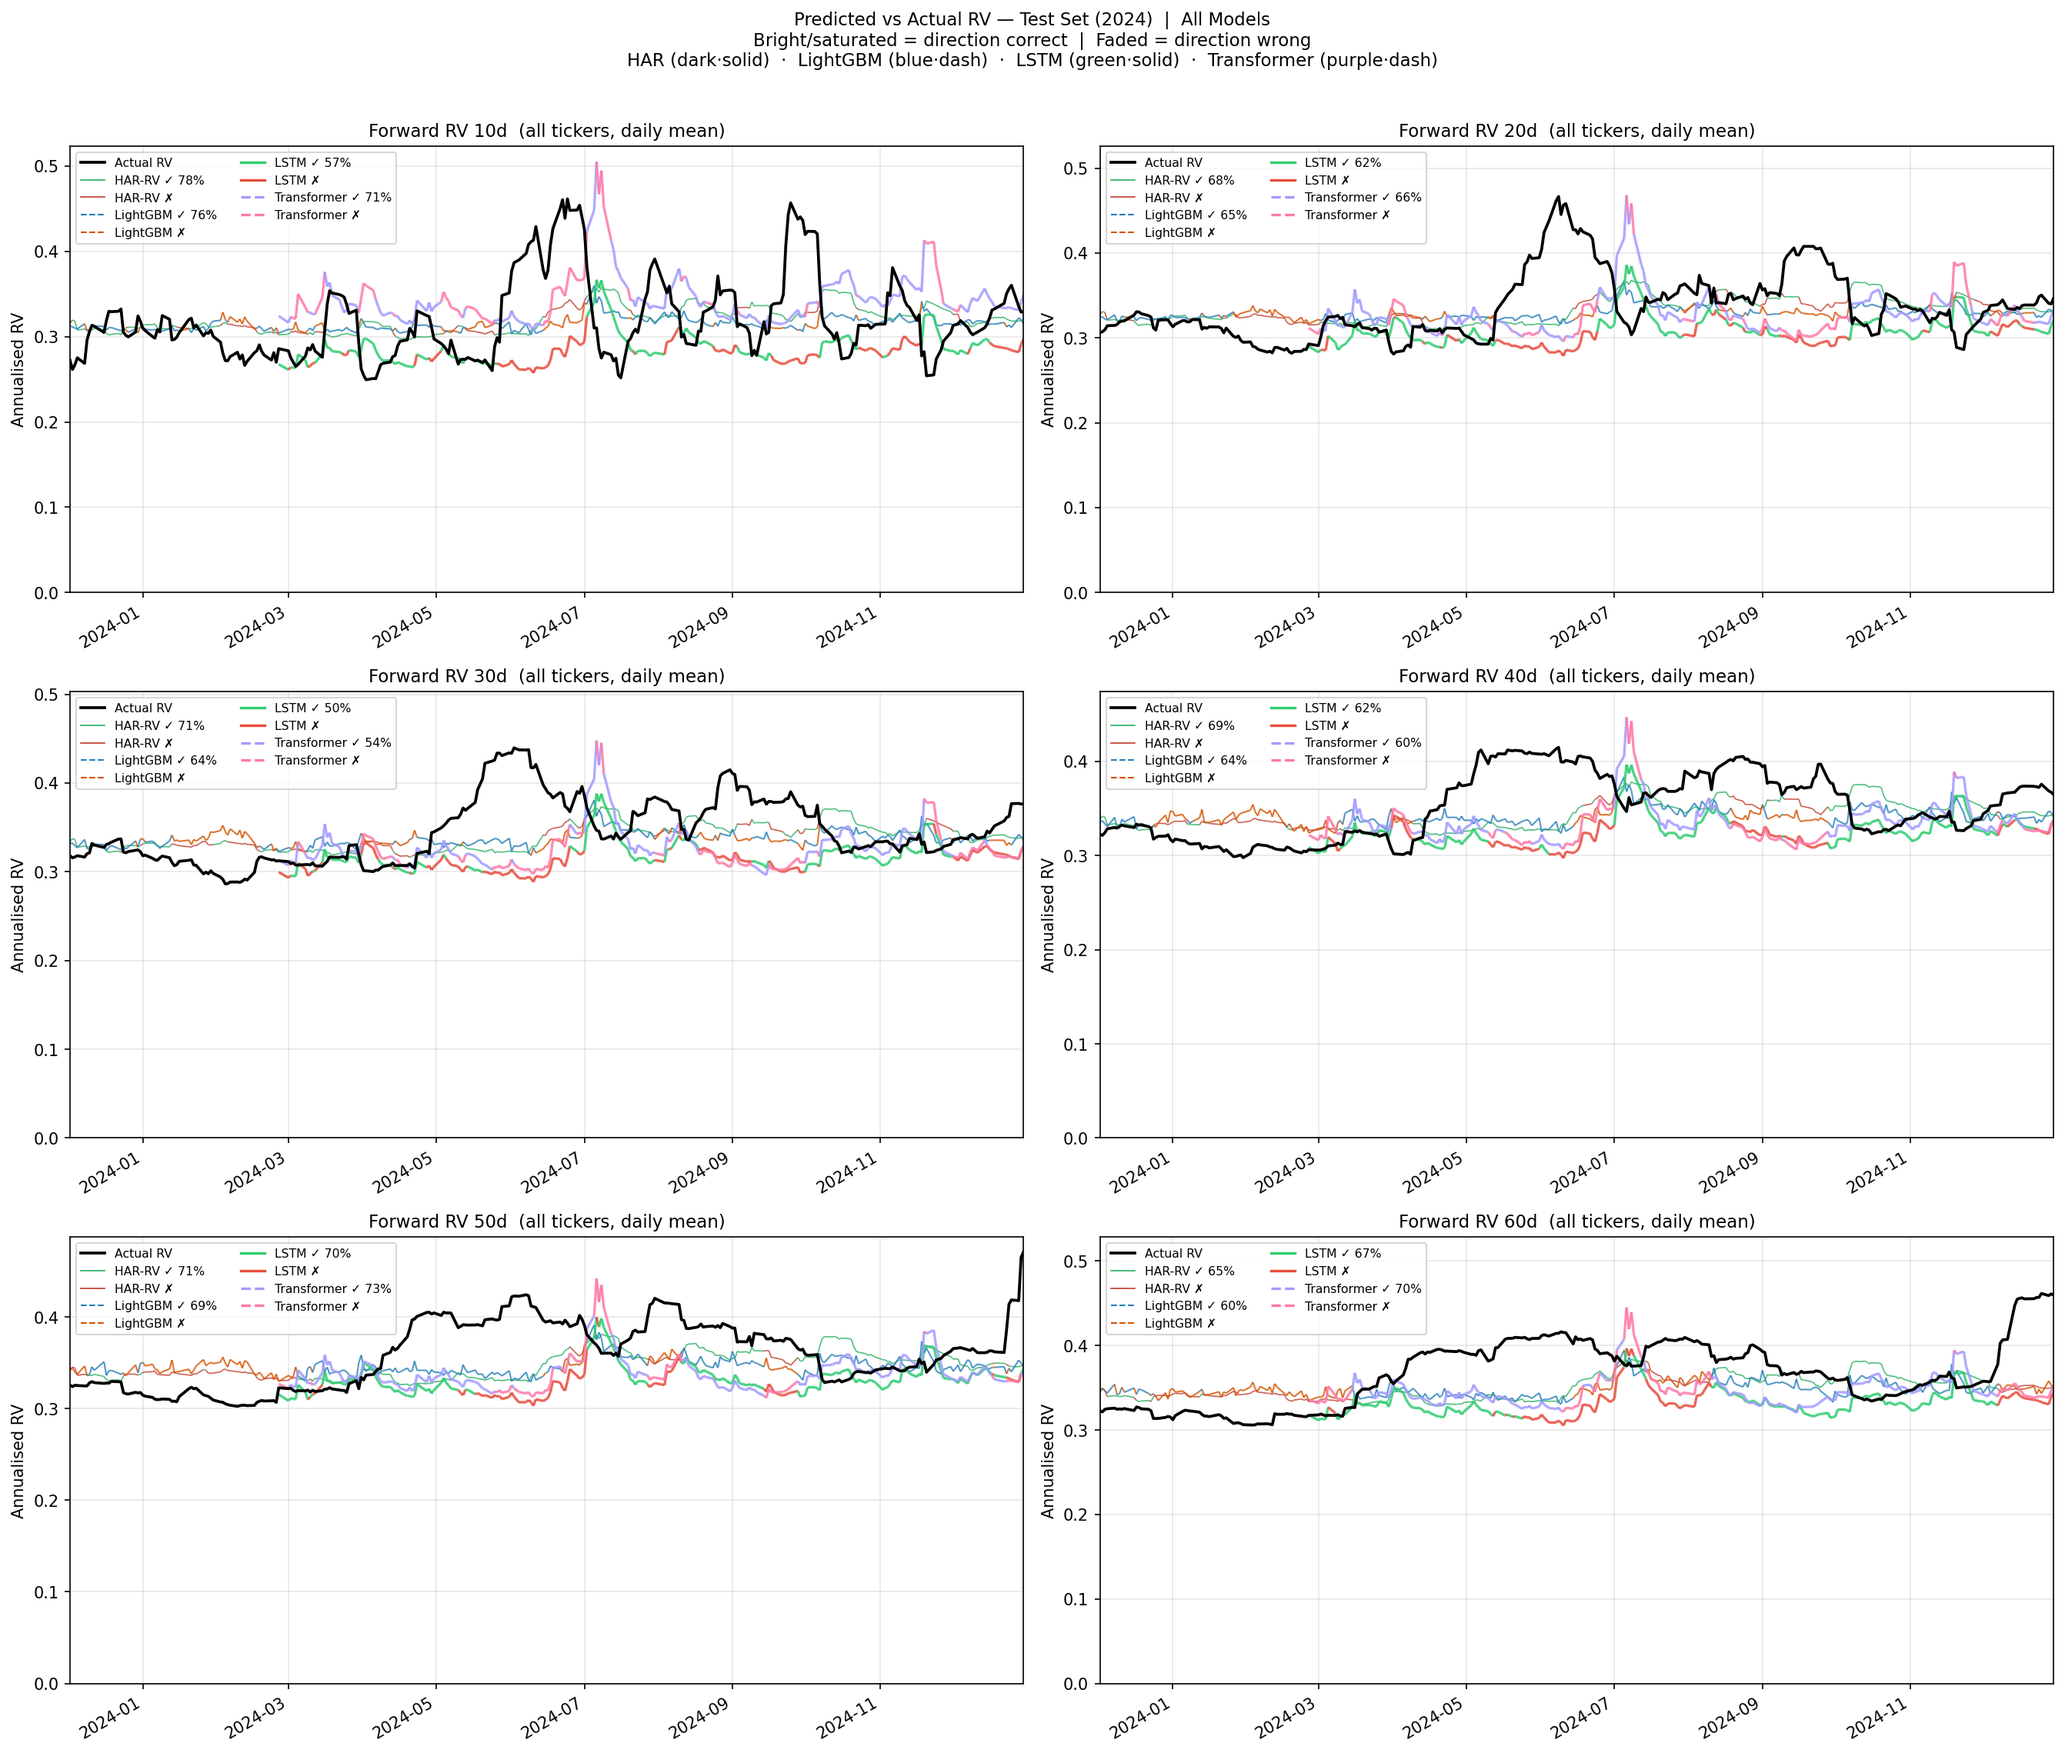
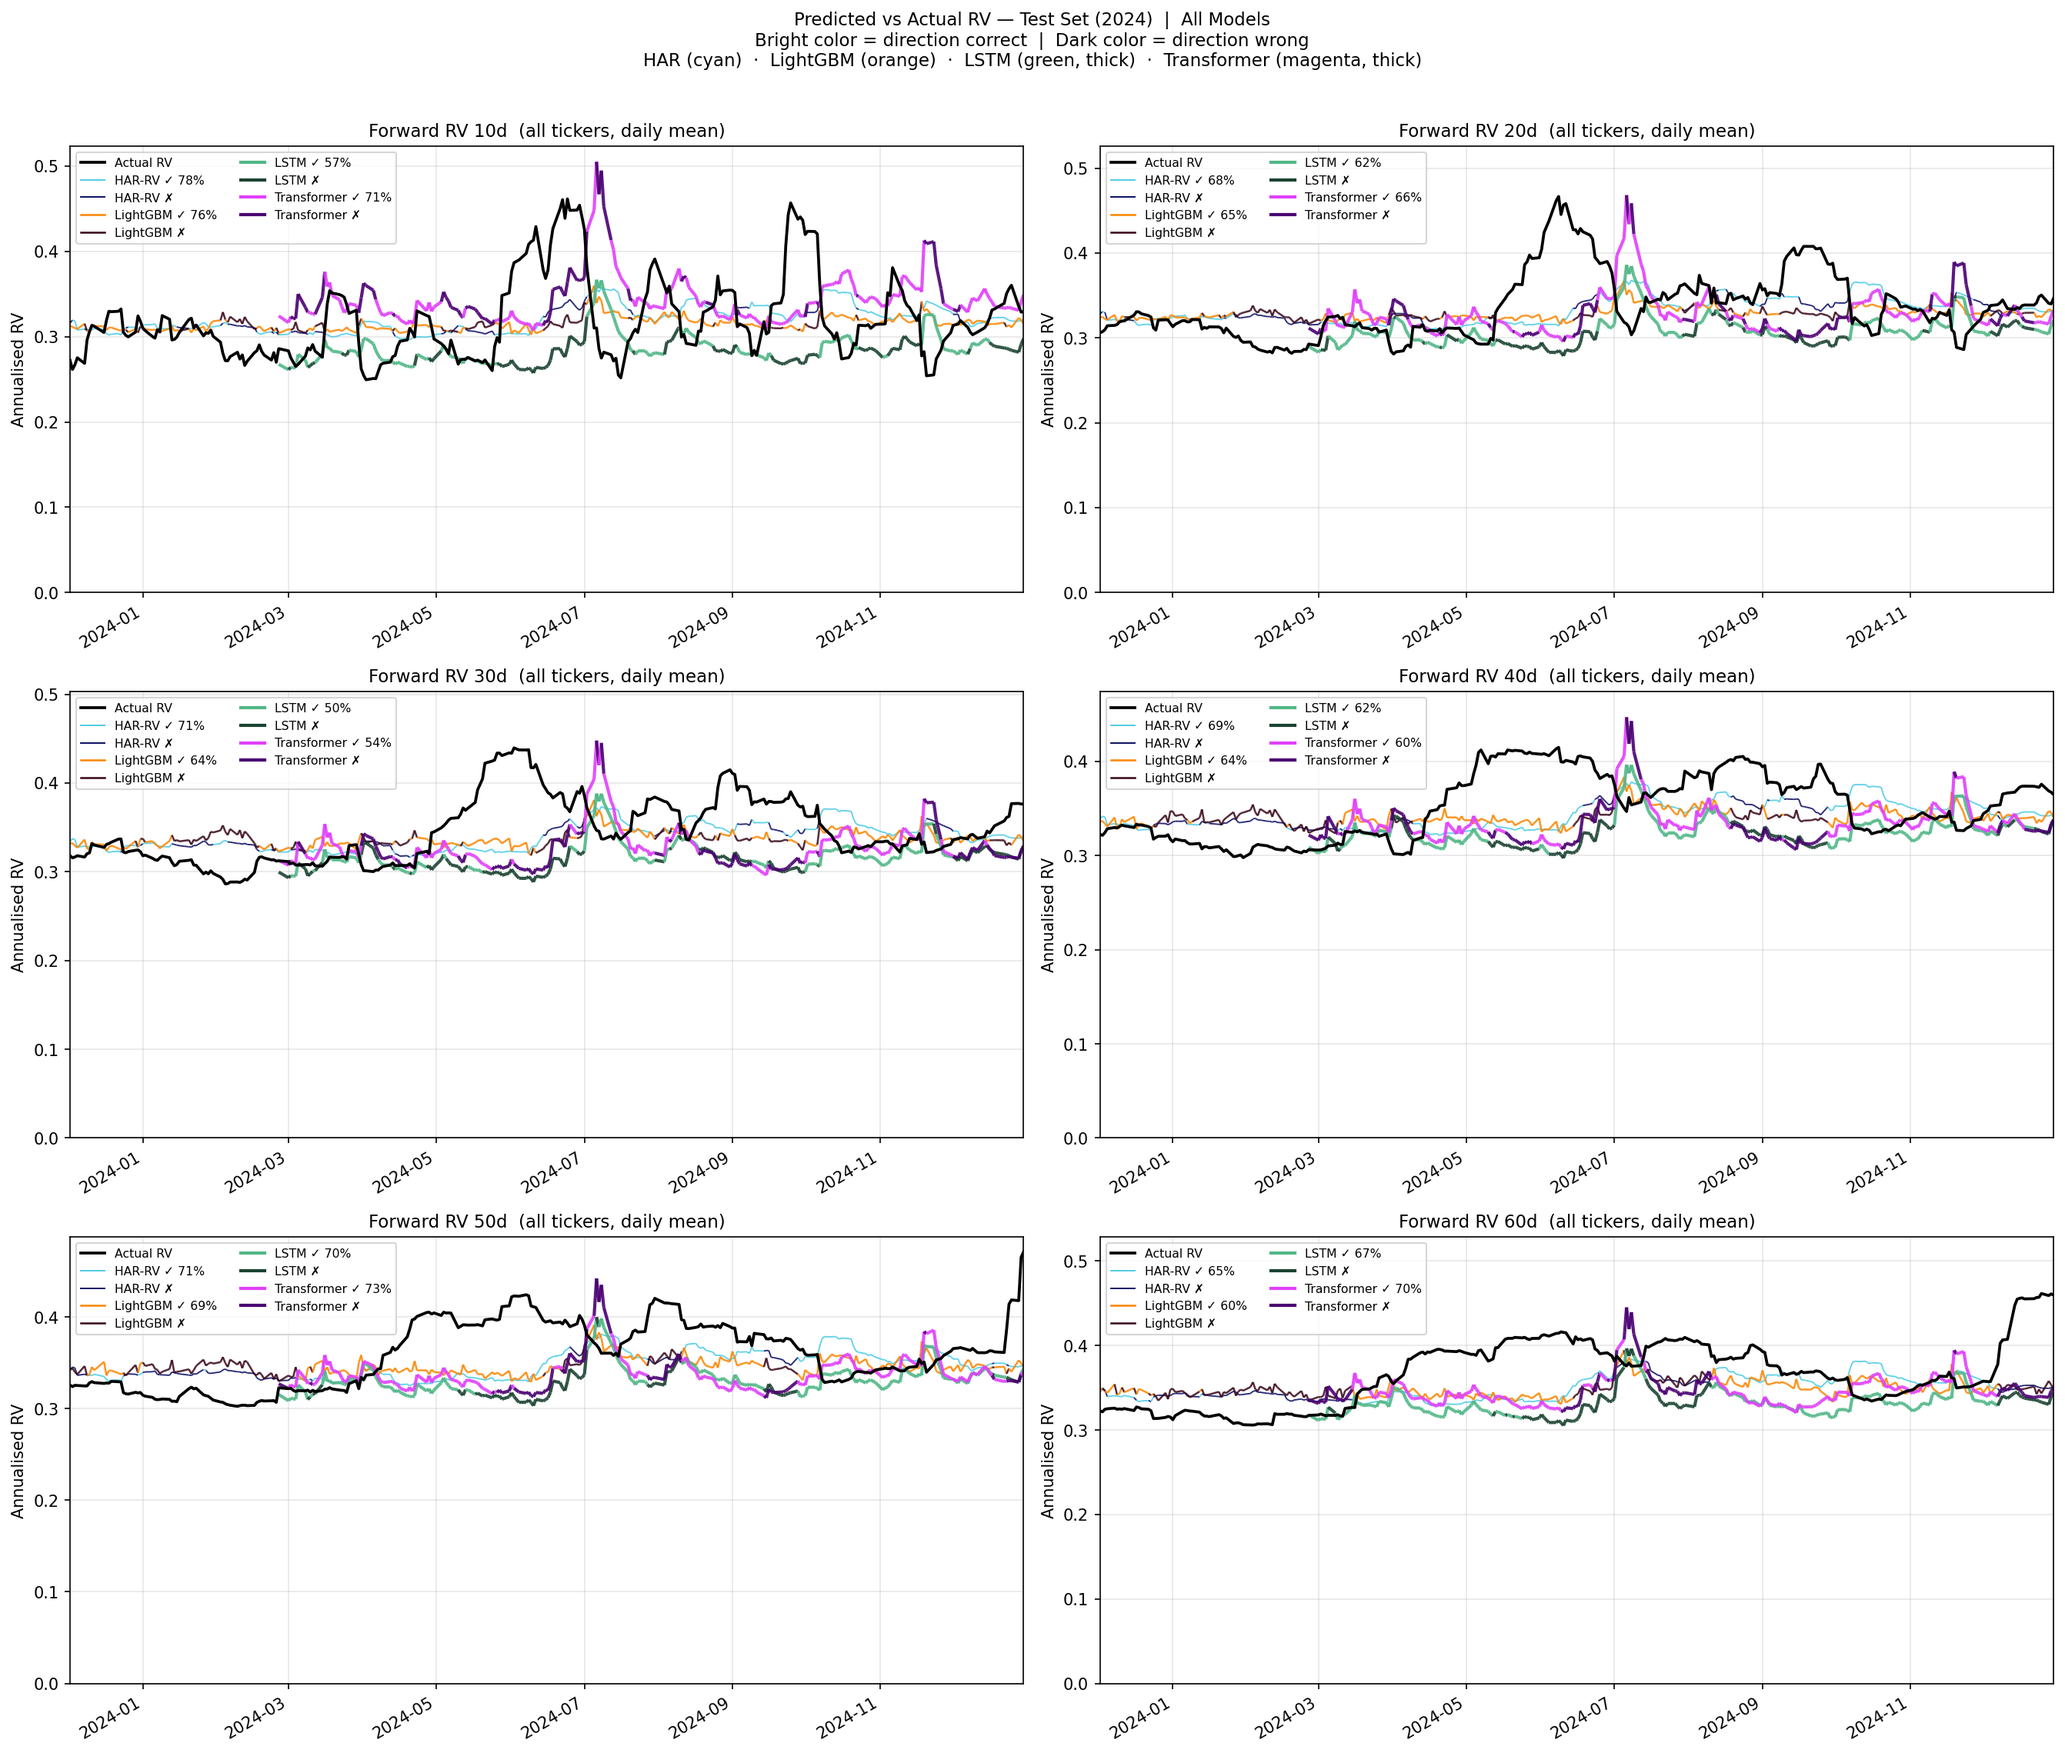
Update project2 direction accuracy plot and plotting script

diff --git a/project2/scripts/plot_dir_accuracy.py b/project2/scripts/plot_dir_accuracy.py
@@ -52,12 +52,13 @@ DEVICE   = torch.device("cuda" if torch.cuda.is_available() else "cpu")
 
 COLOR_ACT = "black"
 
-# Per-model: (correct_color, wrong_color, linewidth, linestyle, alpha)
+# Per-model: (correct_color, wrong_color, linewidth, alpha)
+# Correct = bright/saturated, Wrong = very dark same hue — high contrast
 MODEL_STYLES = {
-    "har":         ("#27ae60", "#c0392b", 0.8, "solid",  0.80),
-    "lgbm":        ("#2980b9", "#d35400", 1.0, "dashed", 0.80),
-    "lstm":        ("#2ecc71", "#e74c3c", 1.6, "solid",  0.85),
-    "transformer": ("#a29bfe", "#fd79a8", 1.6, "dashed", 0.85),
+    "har":         ("#48CAE4", "#03045E", 0.9, 0.85),   # bright cyan   / dark navy
+    "lgbm":        ("#FB8500", "#370617", 1.2, 0.85),   # bright orange / near-black brown
+    "lstm":        ("#52B788", "#1B4332", 2.0, 0.90),   # bright green  / dark forest green
+    "transformer": ("#E040FB", "#4A0072", 2.0, 0.90),   # bright magenta/ dark purple
 }
 
 
@@ -245,7 +246,7 @@ def plot_all(daily):
         legend_elems = [Line2D([0], [0], color=COLOR_ACT, lw=1.8, label="Actual RV")]
 
         for key, cfg_key in MODEL_CFG_KEYS.items():
-            col_ok, col_err, lw, ls, alpha = MODEL_STYLES[cfg_key]
+            col_ok, col_err, lw, alpha = MODEL_STYLES[cfg_key]
             label = MODEL_LABELS[key]
             pred  = daily[f"{key}_{h}"].values
             valid = ~np.isnan(pred)
@@ -255,11 +256,10 @@ def plot_all(daily):
             acc = ok.mean()
             colored_line(ax, dates[valid], pred[valid], ok,
                          col_ok, col_err, lw, alpha)
-            ls_kw = dict(linestyle=ls) if ls != "solid" else {}
             legend_elems += [
-                Line2D([0], [0], color=col_ok,  lw=lw, **ls_kw,
+                Line2D([0], [0], color=col_ok,  lw=lw,
                        label=f"{label} ✓ {acc:.0%}"),
-                Line2D([0], [0], color=col_err, lw=lw, **ls_kw,
+                Line2D([0], [0], color=col_err, lw=lw,
                        label=f"{label} ✗"),
             ]
 
@@ -275,8 +275,8 @@ def plot_all(daily):
 
     fig.suptitle(
         "Predicted vs Actual RV — Test Set (2024)  |  All Models\n"
-        "Bright/saturated = direction correct  |  Faded = direction wrong\n"
-        "HAR (dark·solid)  ·  LightGBM (blue·dash)  ·  LSTM (green·solid)  ·  Transformer (purple·dash)",
+        "Bright color = direction correct  |  Dark color = direction wrong\n"
+        "HAR (cyan)  ·  LightGBM (orange)  ·  LSTM (green, thick)  ·  Transformer (magenta, thick)",
         fontsize=11, y=1.01,
     )
     plt.tight_layout()
